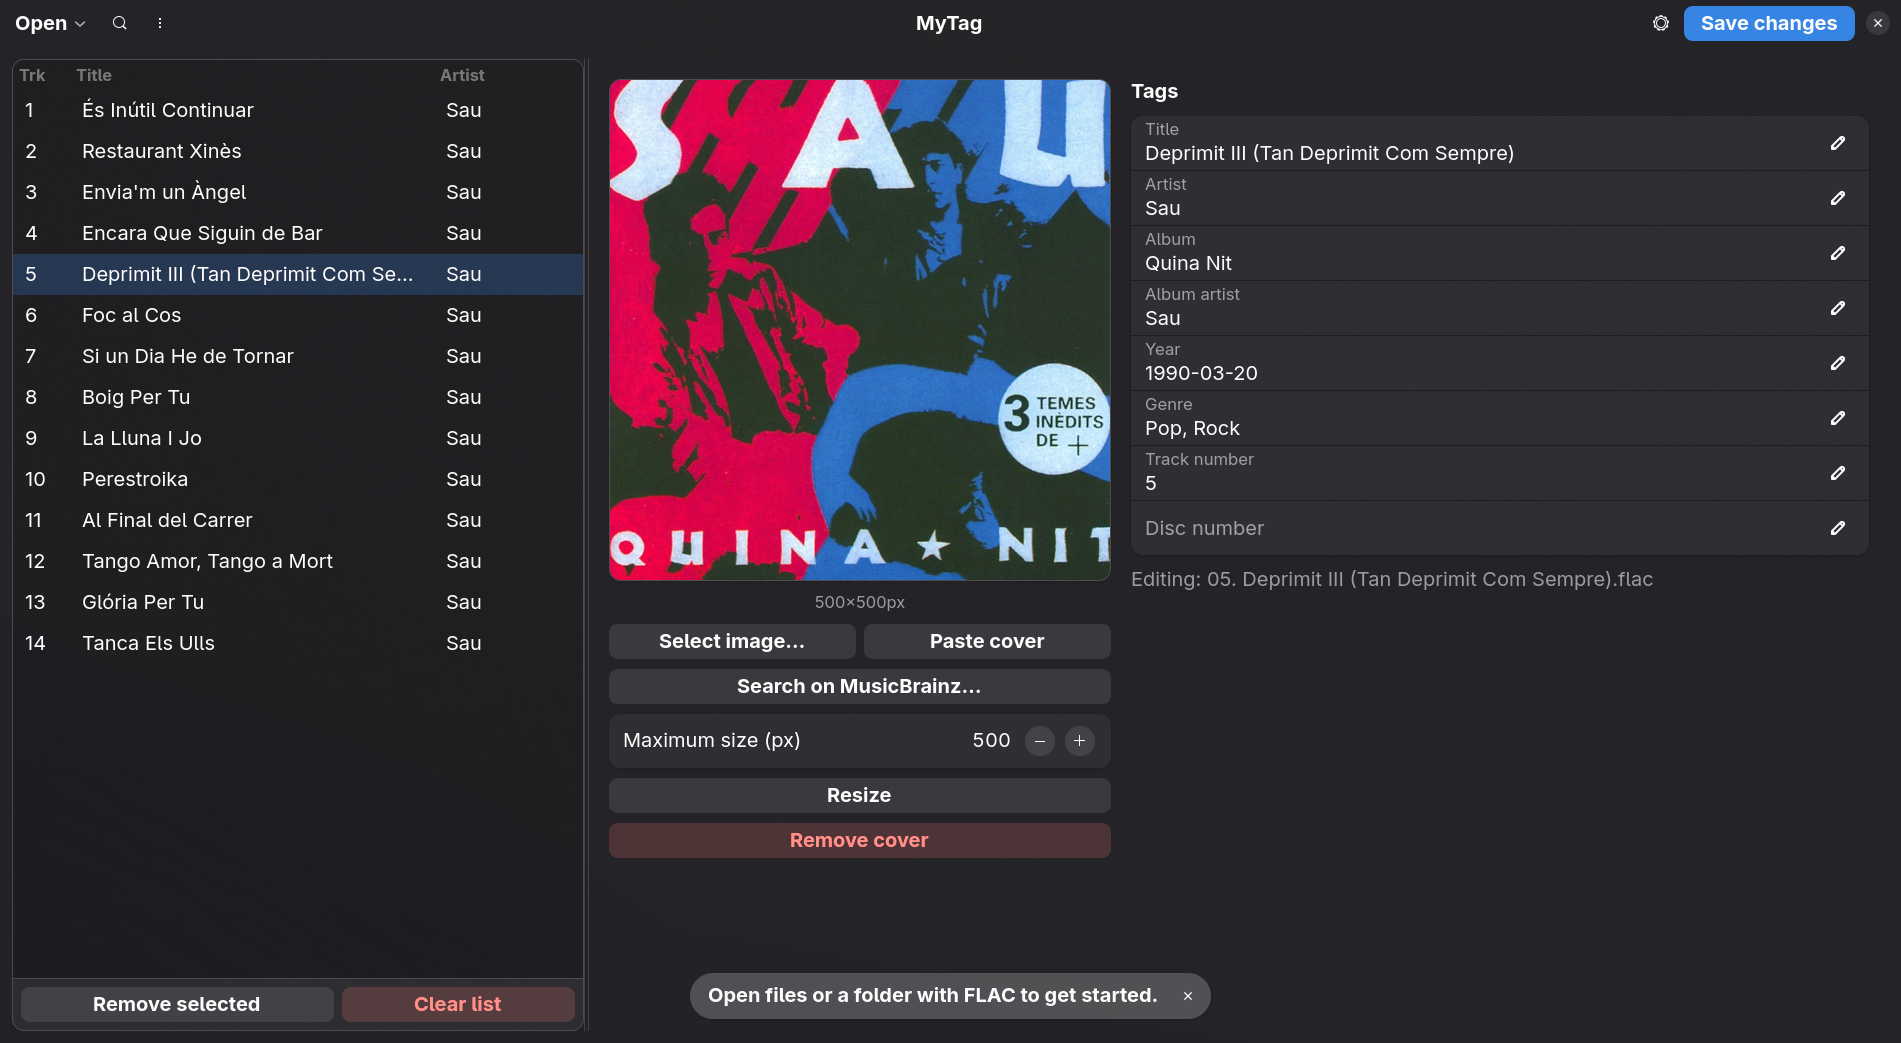
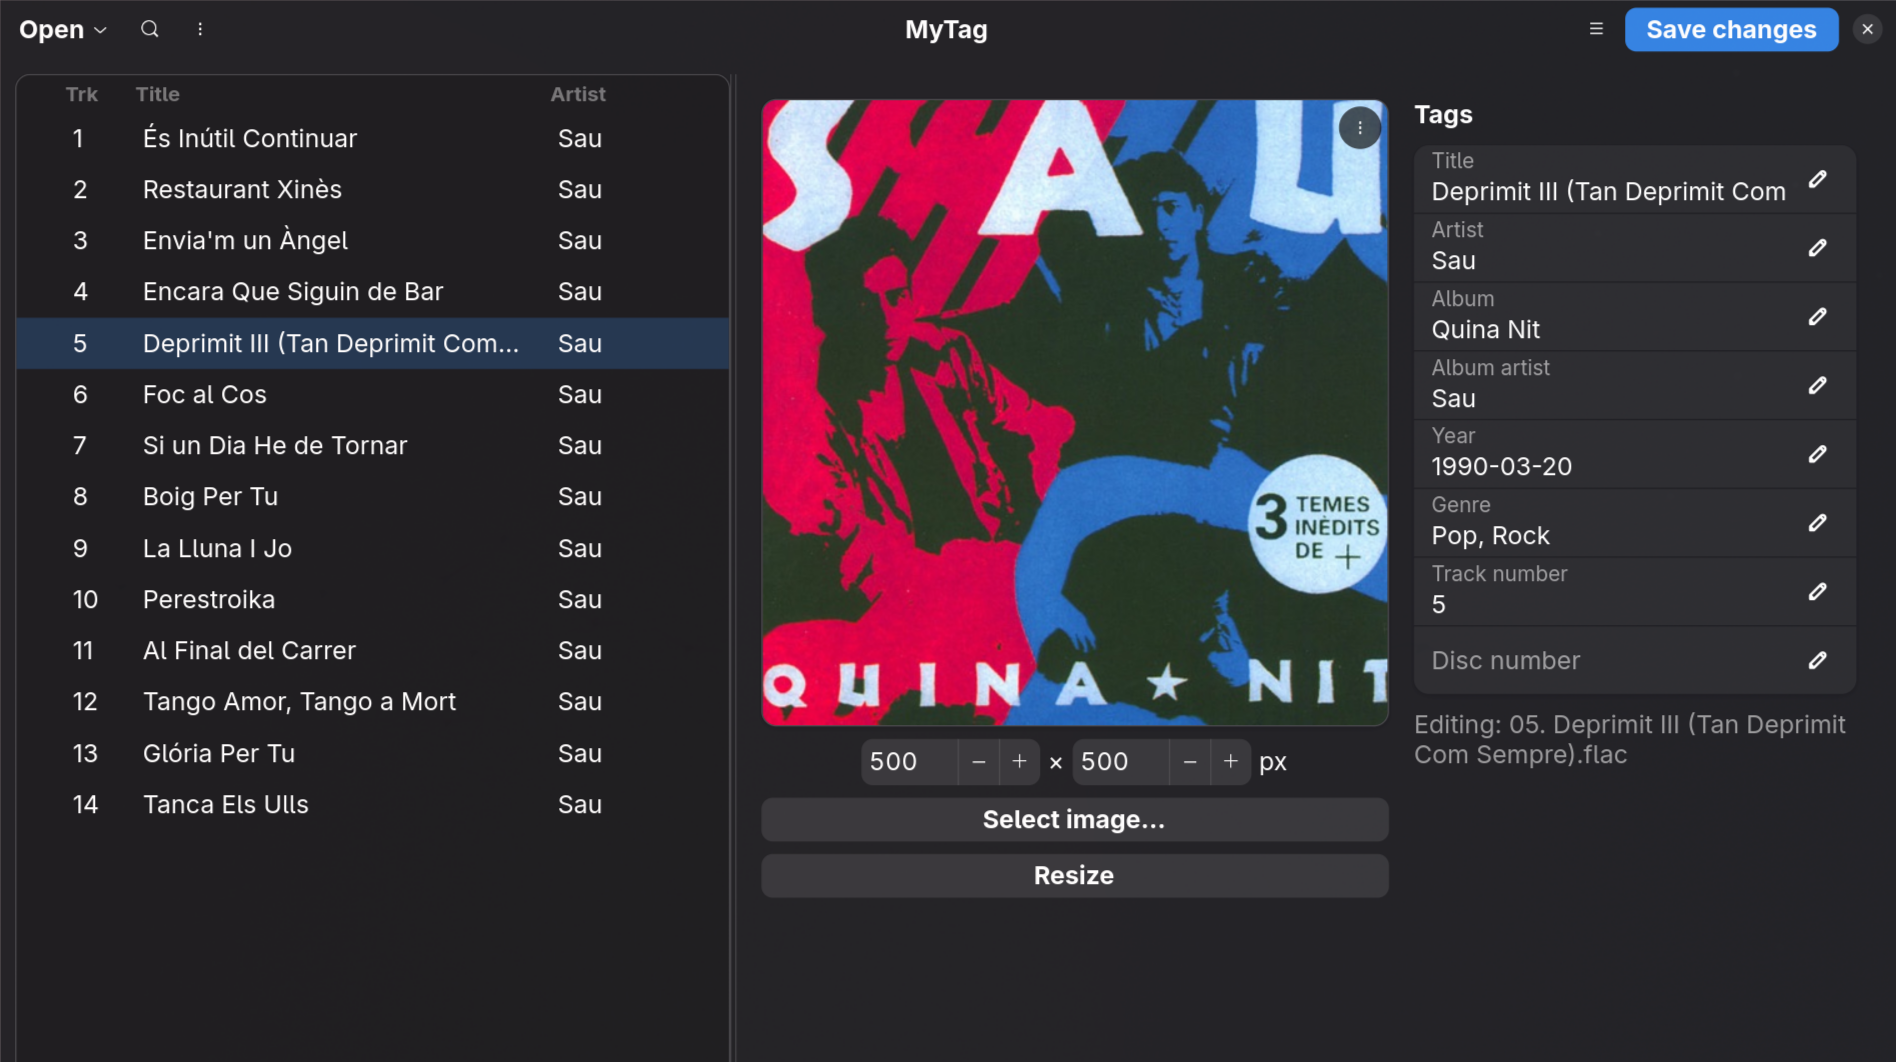
0.20.0-alpha: subir versión, corregir versión del .deb y refrescar capturas
- Version bump a 0.20.0 en __init__.py, pyproject.toml y en los tres
  scripts/spec de empaquetado (deb, rpm, flatpak).
- El control.template del .deb tenía la versión hardcodeada (nunca se
  sustituía), así que el .deb de la 0.11.0 llevaba internamente
  "Version: 0.10.0~alpha0-1" pese al nombre de archivo; ahora
  build_deb.sh sustituye @VERSION@ correctamente.
- Nueva entrada de release en el metainfo.
- Capturas de pantalla actualizadas a la interfaz actual (tamaño de
  portada editable directamente, sin exportar CSV).

diff --git a/mytag/__init__.py b/mytag/__init__.py
@@ -1,3 +1,3 @@
 """MyTag: editor gráfico de etiquetas y portadas para archivos FLAC."""
 
-__version__ = "0.11.0"
+__version__ = "0.20.0"
